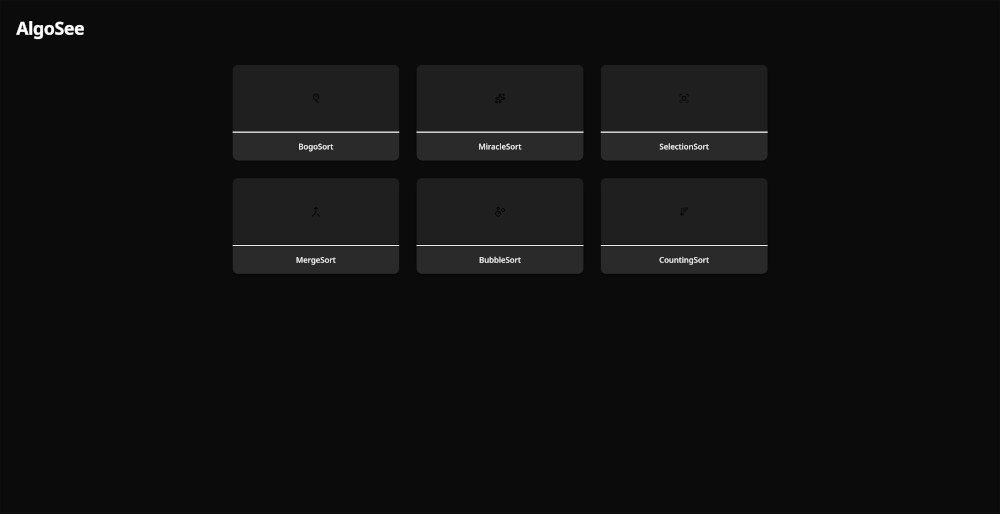
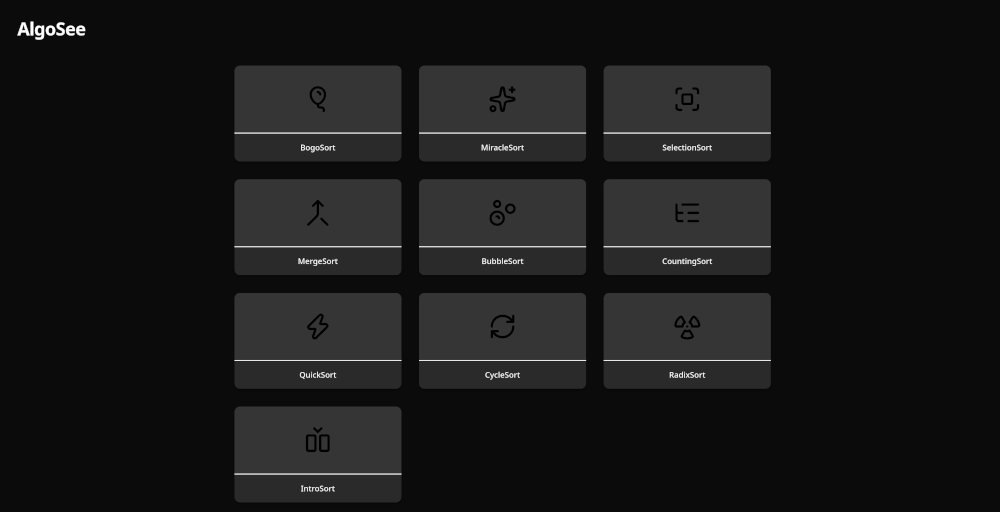
Added Syntax to ReadME

diff --git a/src/server/server.cpp b/src/server/server.cpp
@@ -24,6 +24,7 @@
 #include <httplib/httplib.h>
 #include <nlohmann/json.hpp>
 #include <vector>
+#include <thread>
 
 using json = nlohmann::json;
 
@@ -55,7 +56,9 @@ void afterSelfTestRun(std::string algorithmName,
 
 void RunStatus(const httplib::Request &req, httplib::Response &res,
                stateClass &state) {
-  json response = {{"status", "online"}};
+  json response;
+  response["STATUS"]="ONLINE";
+  response["VERION"]="VERSION";
   if (req.has_header("X-Forwarded-For")) {
     state.out("Status request from:" + req.get_header_value("X-Forwarded-For"),
               0);
@@ -74,6 +77,7 @@ void RunSelftest(const httplib::Request &req, httplib::Response &res,
     
   state.out("Initating selftest...", 0);
   json response;
+  response["VERSION"]=VERSION;
   int n = 1;
   if (req.has_header("X-Forwarded-For")) {
     state.out("recived selftest request from:" +

diff --git a/src/main.cpp b/src/main.cpp
@@ -17,17 +17,12 @@
  * <https://www.gnu.org/licenses/>.
  */
 
-#include "pathalgo/algos.h"
 #include "server/server.h"
-#include "sortalgo/algos.h"
 #include "utils/defs.h"
 #include "utils/utils.h"
-#include <chrono>
 #include <httplib.h>
 #include <nlohmann/json.hpp>
-#include <numeric>
 #include <string>
-#include <vector>
 
 int main(int argc, char *argv[]) {
   stateClass state;

diff --git a/README.md b/README.md
@@ -6,8 +6,8 @@
 
 
 ## Demo:
-![Demo](./assets/Screenshot_Bubble_140.png)
 ![Demo](./assets/Screenshot_Overview.png)    
+![Demo](./assets/Screenshot_Bubble_140.png)
 
 ## Features:
 - **Choose between 6 sorting algorithms**
@@ -68,7 +68,7 @@ Current plans invlove expanding into other areas of algorithms, like wayfinding 
 ## Workflow:
 1. Currently a visitor on https://mrhunor.github.io/algosee is shown the newest version of the fronend (./frontend).
 2. Via clicking on any algorithm they are sending a status request to the backend server (algosee.onrender.com), depending on its outcome the frontend displays a loading screen in the time of the server waking up.
-3. By pressing the "start" button on the viszulizer.html they are sending a html POST request [like this](#to-test-the-backend-online-linux) to the backend.
+3. By pressing the "start" button on the viszulizer.html they are sending a html POST request [like this](#To-test-the-backend-sorting-online-(linux)) to the backend.
 4. The backend extracts the algorithm Name from the URL and performs the sorting.
 5. The backend return the sorted array, a set of instructions on how to visulise the sorting and metadata like backend version and time in nanoseconds.
 6. The frontend visulises the instructions returned by the backend.   
@@ -92,8 +92,9 @@ Current plans invlove expanding into other areas of algorithms, like wayfinding 
    -> `/js/` Contains JS files  
    -> `/` Contains all html files  
 - `./src` Root folder of the Backend side  
+   -> `pathalgo` Contains pathfinding algorithms
    -> `/server/` Contains server logic  
-   -> `/sortalgo/` Contains sort algorithms   
+   -> `/sortalgo/` Contains sorting algorithms   
    -> `/utils/` Contains usefull tools  
    -> `/` Contains main.cpp
 - `/` Contains all files needed for building the executable as well as this readME and the LICENSE file
@@ -108,6 +109,12 @@ Current plans invlove expanding into other areas of algorithms, like wayfinding 
 1. `conan install . --output-folder=build --build=missing` to install dependencies  
 2. `cmake --preset conan-release` to automaticall configure the build with conan dependencies (-> **if this fails** and you have to rerun the command you HAVE to delete the build Folder and restart from scratch because cmakeCache has already been written)  
 3. `cmake --build build` to build 
+
+## Syntax  
+`[SERVERIP]/status` **->** Responds with a json with STATUS and VERSION paramter, of which the status parameter should return 'ONLINE' if the server is online and reachable.  
+`[SERVERIP]/selftest` **->** Runs a selftest on all sorting algorithms that are [currently implemented](#Sorting), and returns a json with VERSION, and a STATUS & TIME (in ns) paramter for every algorithm.  
+`[SERVERIP]/sortalgo?algo=X` (where x is a search algorithm name, for valid names look in `src/utils/defs.h`) **->** Run a sorting algorithm of your choice on the values provided in the body of the request under the name 'values' (formatted in json).  
+`[SERVERIP]/pathalgo?algo=X` (where x is a search algorithm name, for valid names look in `src/utils/defs.h`) **->** Run a pathfinding algorithm of your choice, you have to provide the MAP (in boolean or integer depending on algorithm) in a array(rows) format, a START in pair format, and a GOAL in the same format (view the examples under this section).  
 
 ## To test the backend sorting locally (linux):
 Use curl to make a request while the server is running, e.g.: `curl -v -X POST "http://127.0.0.1:8080/sortalgo?algo=selection" -H "Content-Type: application/json" -d "{\"values\":[$(seq 1 n | shuf | paste -sd, -)]}" ` where n = number of values (be careful of the actual port when running through docker)  
